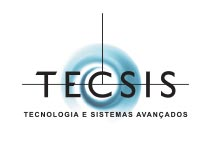
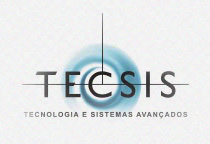
placeholder cross browser + bg

diff --git a/js/modernizr.custom.49113.js b/js/modernizr.custom.49113.js
@@ -1,0 +1,4 @@
+/* Modernizr 2.6.2 (Custom Build) | MIT & BSD
+ * Build: http://modernizr.com/download/#-fontface-borderradius-boxshadow-opacity-rgba-textshadow-cssanimations-csstransforms-csstransitions-input-inputtypes-shiv-mq-cssclasses-teststyles-testprop-testallprops-prefixes-domprefixes-load
+ */
+;window.Modernizr=function(a,b,c){function B(a){j.cssText=a}function C(a,b){return B(n.join(a+";")+(b||""))}function D(a,b){return typeof a===b}function E(a,b){return!!~(""+a).indexOf(b)}function F(a,b){for(var d in a){var e=a[d];if(!E(e,"-")&&j[e]!==c)return b=="pfx"?e:!0}return!1}function G(a,b,d){for(var e in a){var f=b[a[e]];if(f!==c)return d===!1?a[e]:D(f,"function")?f.bind(d||b):f}return!1}function H(a,b,c){var d=a.charAt(0).toUpperCase()+a.slice(1),e=(a+" "+p.join(d+" ")+d).split(" ");return D(b,"string")||D(b,"undefined")?F(e,b):(e=(a+" "+q.join(d+" ")+d).split(" "),G(e,b,c))}function I(){e.input=function(c){for(var d=0,e=c.length;d<e;d++)t[c[d]]=c[d]in k;return t.list&&(t.list=!!b.createElement("datalist")&&!!a.HTMLDataListElement),t}("autocomplete autofocus list placeholder max min multiple pattern required step".split(" ")),e.inputtypes=function(a){for(var d=0,e,f,h,i=a.length;d<i;d++)k.setAttribute("type",f=a[d]),e=k.type!=="text",e&&(k.value=l,k.style.cssText="position:absolute;visibility:hidden;",/^range$/.test(f)&&k.style.WebkitAppearance!==c?(g.appendChild(k),h=b.defaultView,e=h.getComputedStyle&&h.getComputedStyle(k,null).WebkitAppearance!=="textfield"&&k.offsetHeight!==0,g.removeChild(k)):/^(search|tel)$/.test(f)||(/^(url|email)$/.test(f)?e=k.checkValidity&&k.checkValidity()===!1:e=k.value!=l)),s[a[d]]=!!e;return s}("search tel url email datetime date month week time datetime-local number range color".split(" "))}var d="2.6.2",e={},f=!0,g=b.documentElement,h="modernizr",i=b.createElement(h),j=i.style,k=b.createElement("input"),l=":)",m={}.toString,n=" -webkit- -moz- -o- -ms- ".split(" "),o="Webkit Moz O ms",p=o.split(" "),q=o.toLowerCase().split(" "),r={},s={},t={},u=[],v=u.slice,w,x=function(a,c,d,e){var f,i,j,k,l=b.createElement("div"),m=b.body,n=m||b.createElement("body");if(parseInt(d,10))while(d--)j=b.createElement("div"),j.id=e?e[d]:h+(d+1),l.appendChild(j);return f=["&#173;",'<style id="s',h,'">',a,"</style>"].join(""),l.id=h,(m?l:n).innerHTML+=f,n.appendChild(l),m||(n.style.background="",n.style.overflow="hidden",k=g.style.overflow,g.style.overflow="hidden",g.appendChild(n)),i=c(l,a),m?l.parentNode.removeChild(l):(n.parentNode.removeChild(n),g.style.overflow=k),!!i},y=function(b){var c=a.matchMedia||a.msMatchMedia;if(c)return c(b).matches;var d;return x("@media "+b+" { #"+h+" { position: absolute; } }",function(b){d=(a.getComputedStyle?getComputedStyle(b,null):b.currentStyle)["position"]=="absolute"}),d},z={}.hasOwnProperty,A;!D(z,"undefined")&&!D(z.call,"undefined")?A=function(a,b){return z.call(a,b)}:A=function(a,b){return b in a&&D(a.constructor.prototype[b],"undefined")},Function.prototype.bind||(Function.prototype.bind=function(b){var c=this;if(typeof c!="function")throw new TypeError;var d=v.call(arguments,1),e=function(){if(this instanceof e){var a=function(){};a.prototype=c.prototype;var f=new a,g=c.apply(f,d.concat(v.call(arguments)));return Object(g)===g?g:f}return c.apply(b,d.concat(v.call(arguments)))};return e}),r.rgba=function(){return B("background-color:rgba(150,255,150,.5)"),E(j.backgroundColor,"rgba")},r.borderradius=function(){return H("borderRadius")},r.boxshadow=function(){return H("boxShadow")},r.textshadow=function(){return b.createElement("div").style.textShadow===""},r.opacity=function(){return C("opacity:.55"),/^0.55$/.test(j.opacity)},r.cssanimations=function(){return H("animationName")},r.csstransforms=function(){return!!H("transform")},r.csstransitions=function(){return H("transition")},r.fontface=function(){var a;return x('@font-face {font-family:"font";src:url("https://")}',function(c,d){var e=b.getElementById("smodernizr"),f=e.sheet||e.styleSheet,g=f?f.cssRules&&f.cssRules[0]?f.cssRules[0].cssText:f.cssText||"":"";a=/src/i.test(g)&&g.indexOf(d.split(" ")[0])===0}),a};for(var J in r)A(r,J)&&(w=J.toLowerCase(),e[w]=r[J](),u.push((e[w]?"":"no-")+w));return e.input||I(),e.addTest=function(a,b){if(typeof a=="object")for(var d in a)A(a,d)&&e.addTest(d,a[d]);else{a=a.toLowerCase();if(e[a]!==c)return e;b=typeof b=="function"?b():b,typeof f!="undefined"&&f&&(g.className+=" "+(b?"":"no-")+a),e[a]=b}return e},B(""),i=k=null,function(a,b){function k(a,b){var c=a.createElement("p"),d=a.getElementsByTagName("head")[0]||a.documentElement;return c.innerHTML="x<style>"+b+"</style>",d.insertBefore(c.lastChild,d.firstChild)}function l(){var a=r.elements;return typeof a=="string"?a.split(" "):a}function m(a){var b=i[a[g]];return b||(b={},h++,a[g]=h,i[h]=b),b}function n(a,c,f){c||(c=b);if(j)return c.createElement(a);f||(f=m(c));var g;return f.cache[a]?g=f.cache[a].cloneNode():e.test(a)?g=(f.cache[a]=f.createElem(a)).cloneNode():g=f.createElem(a),g.canHaveChildren&&!d.test(a)?f.frag.appendChild(g):g}function o(a,c){a||(a=b);if(j)return a.createDocumentFragment();c=c||m(a);var d=c.frag.cloneNode(),e=0,f=l(),g=f.length;for(;e<g;e++)d.createElement(f[e]);return d}function p(a,b){b.cache||(b.cache={},b.createElem=a.createElement,b.createFrag=a.createDocumentFragment,b.frag=b.createFrag()),a.createElement=function(c){return r.shivMethods?n(c,a,b):b.createElem(c)},a.createDocumentFragment=Function("h,f","return function(){var n=f.cloneNode(),c=n.createElement;h.shivMethods&&("+l().join().replace(/\w+/g,function(a){return b.createElem(a),b.frag.createElement(a),'c("'+a+'")'})+");return n}")(r,b.frag)}function q(a){a||(a=b);var c=m(a);return r.shivCSS&&!f&&!c.hasCSS&&(c.hasCSS=!!k(a,"article,aside,figcaption,figure,footer,header,hgroup,nav,section{display:block}mark{background:#FF0;color:#000}")),j||p(a,c),a}var c=a.html5||{},d=/^<|^(?:button|map|select|textarea|object|iframe|option|optgroup)$/i,e=/^(?:a|b|code|div|fieldset|h1|h2|h3|h4|h5|h6|i|label|li|ol|p|q|span|strong|style|table|tbody|td|th|tr|ul)$/i,f,g="_html5shiv",h=0,i={},j;(function(){try{var a=b.createElement("a");a.innerHTML="<xyz></xyz>",f="hidden"in a,j=a.childNodes.length==1||function(){b.createElement("a");var a=b.createDocumentFragment();return typeof a.cloneNode=="undefined"||typeof a.createDocumentFragment=="undefined"||typeof a.createElement=="undefined"}()}catch(c){f=!0,j=!0}})();var r={elements:c.elements||"abbr article aside audio bdi canvas data datalist details figcaption figure footer header hgroup mark meter nav output progress section summary time video",shivCSS:c.shivCSS!==!1,supportsUnknownElements:j,shivMethods:c.shivMethods!==!1,type:"default",shivDocument:q,createElement:n,createDocumentFragment:o};a.html5=r,q(b)}(this,b),e._version=d,e._prefixes=n,e._domPrefixes=q,e._cssomPrefixes=p,e.mq=y,e.testProp=function(a){return F([a])},e.testAllProps=H,e.testStyles=x,g.className=g.className.replace(/(^|\s)no-js(\s|$)/,"$1$2")+(f?" js "+u.join(" "):""),e}(this,this.document),function(a,b,c){function d(a){return"[object Function]"==o.call(a)}function e(a){return"string"==typeof a}function f(){}function g(a){return!a||"loaded"==a||"complete"==a||"uninitialized"==a}function h(){var a=p.shift();q=1,a?a.t?m(function(){("c"==a.t?B.injectCss:B.injectJs)(a.s,0,a.a,a.x,a.e,1)},0):(a(),h()):q=0}function i(a,c,d,e,f,i,j){function k(b){if(!o&&g(l.readyState)&&(u.r=o=1,!q&&h(),l.onload=l.onreadystatechange=null,b)){"img"!=a&&m(function(){t.removeChild(l)},50);for(var d in y[c])y[c].hasOwnProperty(d)&&y[c][d].onload()}}var j=j||B.errorTimeout,l=b.createElement(a),o=0,r=0,u={t:d,s:c,e:f,a:i,x:j};1===y[c]&&(r=1,y[c]=[]),"object"==a?l.data=c:(l.src=c,l.type=a),l.width=l.height="0",l.onerror=l.onload=l.onreadystatechange=function(){k.call(this,r)},p.splice(e,0,u),"img"!=a&&(r||2===y[c]?(t.insertBefore(l,s?null:n),m(k,j)):y[c].push(l))}function j(a,b,c,d,f){return q=0,b=b||"j",e(a)?i("c"==b?v:u,a,b,this.i++,c,d,f):(p.splice(this.i++,0,a),1==p.length&&h()),this}function k(){var a=B;return a.loader={load:j,i:0},a}var l=b.documentElement,m=a.setTimeout,n=b.getElementsByTagName("script")[0],o={}.toString,p=[],q=0,r="MozAppearance"in l.style,s=r&&!!b.createRange().compareNode,t=s?l:n.parentNode,l=a.opera&&"[object Opera]"==o.call(a.opera),l=!!b.attachEvent&&!l,u=r?"object":l?"script":"img",v=l?"script":u,w=Array.isArray||function(a){return"[object Array]"==o.call(a)},x=[],y={},z={timeout:function(a,b){return b.length&&(a.timeout=b[0]),a}},A,B;B=function(a){function b(a){var a=a.split("!"),b=x.length,c=a.pop(),d=a.length,c={url:c,origUrl:c,prefixes:a},e,f,g;for(f=0;f<d;f++)g=a[f].split("="),(e=z[g.shift()])&&(c=e(c,g));for(f=0;f<b;f++)c=x[f](c);return c}function g(a,e,f,g,h){var i=b(a),j=i.autoCallback;i.url.split(".").pop().split("?").shift(),i.bypass||(e&&(e=d(e)?e:e[a]||e[g]||e[a.split("/").pop().split("?")[0]]),i.instead?i.instead(a,e,f,g,h):(y[i.url]?i.noexec=!0:y[i.url]=1,f.load(i.url,i.forceCSS||!i.forceJS&&"css"==i.url.split(".").pop().split("?").shift()?"c":c,i.noexec,i.attrs,i.timeout),(d(e)||d(j))&&f.load(function(){k(),e&&e(i.origUrl,h,g),j&&j(i.origUrl,h,g),y[i.url]=2})))}function h(a,b){function c(a,c){if(a){if(e(a))c||(j=function(){var a=[].slice.call(arguments);k.apply(this,a),l()}),g(a,j,b,0,h);else if(Object(a)===a)for(n in m=function(){var b=0,c;for(c in a)a.hasOwnProperty(c)&&b++;return b}(),a)a.hasOwnProperty(n)&&(!c&&!--m&&(d(j)?j=function(){var a=[].slice.call(arguments);k.apply(this,a),l()}:j[n]=function(a){return function(){var b=[].slice.call(arguments);a&&a.apply(this,b),l()}}(k[n])),g(a[n],j,b,n,h))}else!c&&l()}var h=!!a.test,i=a.load||a.both,j=a.callback||f,k=j,l=a.complete||f,m,n;c(h?a.yep:a.nope,!!i),i&&c(i)}var i,j,l=this.yepnope.loader;if(e(a))g(a,0,l,0);else if(w(a))for(i=0;i<a.length;i++)j=a[i],e(j)?g(j,0,l,0):w(j)?B(j):Object(j)===j&&h(j,l);else Object(a)===a&&h(a,l)},B.addPrefix=function(a,b){z[a]=b},B.addFilter=function(a){x.push(a)},B.errorTimeout=1e4,null==b.readyState&&b.addEventListener&&(b.readyState="loading",b.addEventListener("DOMContentLoaded",A=function(){b.removeEventListener("DOMContentLoaded",A,0),b.readyState="complete"},0)),a.yepnope=k(),a.yepnope.executeStack=h,a.yepnope.injectJs=function(a,c,d,e,i,j){var k=b.createElement("script"),l,o,e=e||B.errorTimeout;k.src=a;for(o in d)k.setAttribute(o,d[o]);c=j?h:c||f,k.onreadystatechange=k.onload=function(){!l&&g(k.readyState)&&(l=1,c(),k.onload=k.onreadystatechange=null)},m(function(){l||(l=1,c(1))},e),i?k.onload():n.parentNode.insertBefore(k,n)},a.yepnope.injectCss=function(a,c,d,e,g,i){var e=b.createElement("link"),j,c=i?h:c||f;e.href=a,e.rel="stylesheet",e.type="text/css";for(j in d)e.setAttribute(j,d[j]);g||(n.parentNode.insertBefore(e,n),m(c,0))}}(this,document),Modernizr.load=function(){yepnope.apply(window,[].slice.call(arguments,0))};

diff --git a/index.html b/index.html
@@ -7,14 +7,14 @@
 <link href="/css/main.css" rel="stylesheet" type="text/css" media="screen">
 <link href='http://fonts.googleapis.com/css?family=Economica:400,700' rel='stylesheet' type='text/css'>
 
-<script type="text/javascript" src="/js/modernizr.custom.83519.js"></script>
+<script type="text/javascript" src="/js/modernizr.custom.49113.js"></script>
 </head>
 
 <body>
 
 <header>
 	<figure class="inline">
-        <img  id="logo" class="inline" src="/i/tecsis.jpg" alt="logo" />
+        <img id="logo" class="inline" src="/i/tecsis.jpg" alt="logo" />
         <figcaption>
             <hgroup class="inline">
             	<h1>Tecsis</h1>
@@ -91,7 +91,7 @@ Concedido anualmente pela Associação de Comércio Exterior (AEB) e pelo Minist
             	<input type="text" name="nome" value="" placeholder="Nome">
 				<input type="email" name="email" value="" placeholder="Email">
 				<input type="text" name="assunto" value="" placeholder="Assunto">
-				<textarea name="mensagem"></textarea>
+				<textarea name="mensagem" placeholder="Mensagem"></textarea>
 				<input type="submit" id="submit" value="Enviar">
             </form>
 		</div>

diff --git a/js/main.0.1.js b/js/main.0.1.js
@@ -2,7 +2,6 @@
 // by thiago lima <thiagoaslima@gmail.com>
 
 (function(win, doc, $, Mod){
-	console.log($('html').hasClass("cssanimations"))
 
 	if(!$('html').hasClass("cssanimations")){
 		var count = 0,
@@ -20,12 +19,11 @@
 				}
 				r = win.setTimeout(spin, 4500);
 			});
-		}
+		};
 
 		r = win.setTimeout(spin, 0);
 		win.spin = r;
-	};
-
+	}
 
 	if(!Mod.mq('only all')) {
 		var $win = $(win);
@@ -42,7 +40,29 @@
 			} else {
 				$('body').css('fontSize','130%');
 			}
-		})
+		});
 	}
 
-}(this, this.document, this.jQuery, this.Modernizr))
+	if (!Mod.input.placeholder) {
+		$('[placeholder]').each(function() {
+			var field = $(this),
+				v = field.attr('placeholder');
+			console.log(v);
+
+			if(field.val() === ""){
+				field
+					.val(v)
+					.on('focus', function(){
+						field.val("");
+					})
+					.on('blur', function(){
+						if($.trim(field.val()) === ""){
+							field.val(v);
+						}
+					});
+			}
+		});
+
+	}
+
+}(this, this.document, this.jQuery, this.Modernizr));

diff --git a/css/main.css b/css/main.css
@@ -2,7 +2,7 @@
 /* CSS Document */
 
 body {
-	background-image: url(/i/bg.png);
+	background-image: url(/i/bg.jpg);
 	background-repeat: repeat;
 }
 
@@ -112,6 +112,7 @@ footer {
 	border-top: 2px solid #d2d6e0;
 	background-color: #FAFAFA;
 	padding: 1.5em 0;
+	background-color: #edf0f3;
 }
 
 footer span {
@@ -140,11 +141,15 @@ div > .org {
 	margin-right: 0;
 }
 
+#contato > h3 {
+	margin-bottom: 1em;
+}
 input, textarea {
-	width: 100%;
+	width: 110%;
 	background-color: #FDFDFD;
 	border: 1px solid #F7F7F7;
-	margin-bottom: 0.5em;
+	margin-bottom: 1em;
+	padding: 1em 0.5em;
 }
 input:focus, textarea:focus {
 	outline: 1px solid white;
@@ -158,11 +163,10 @@ input[type="submit"] {
 input[type="submit"]:active {
 	background-color: #FDFDFD;
 	color: #777777;
-	padding-top:0;	
+	padding: 0.5em;	
 }
 input {
 	height: 3em;
-	padding-top:1em;
 }
 textarea {
 	height: 15em;
